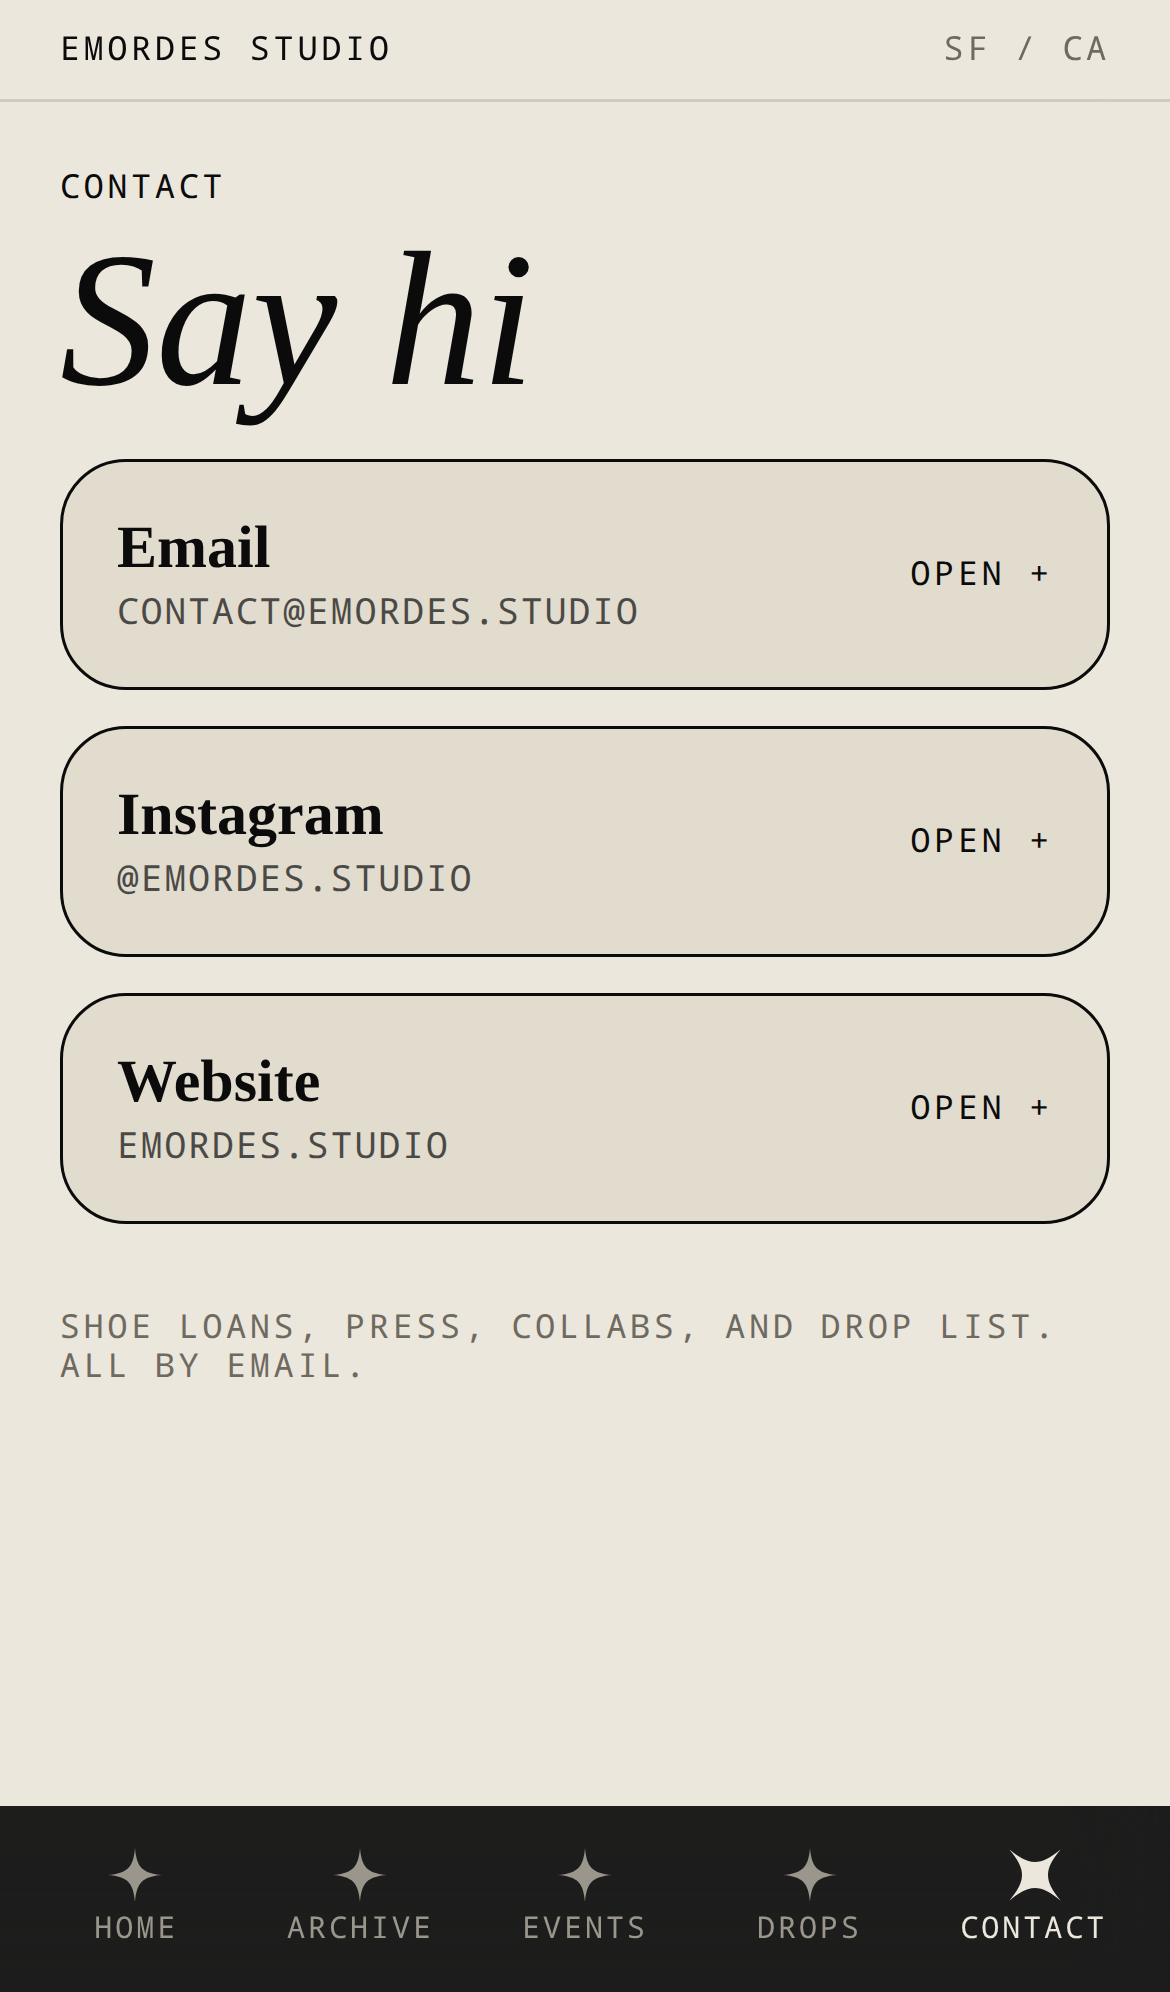
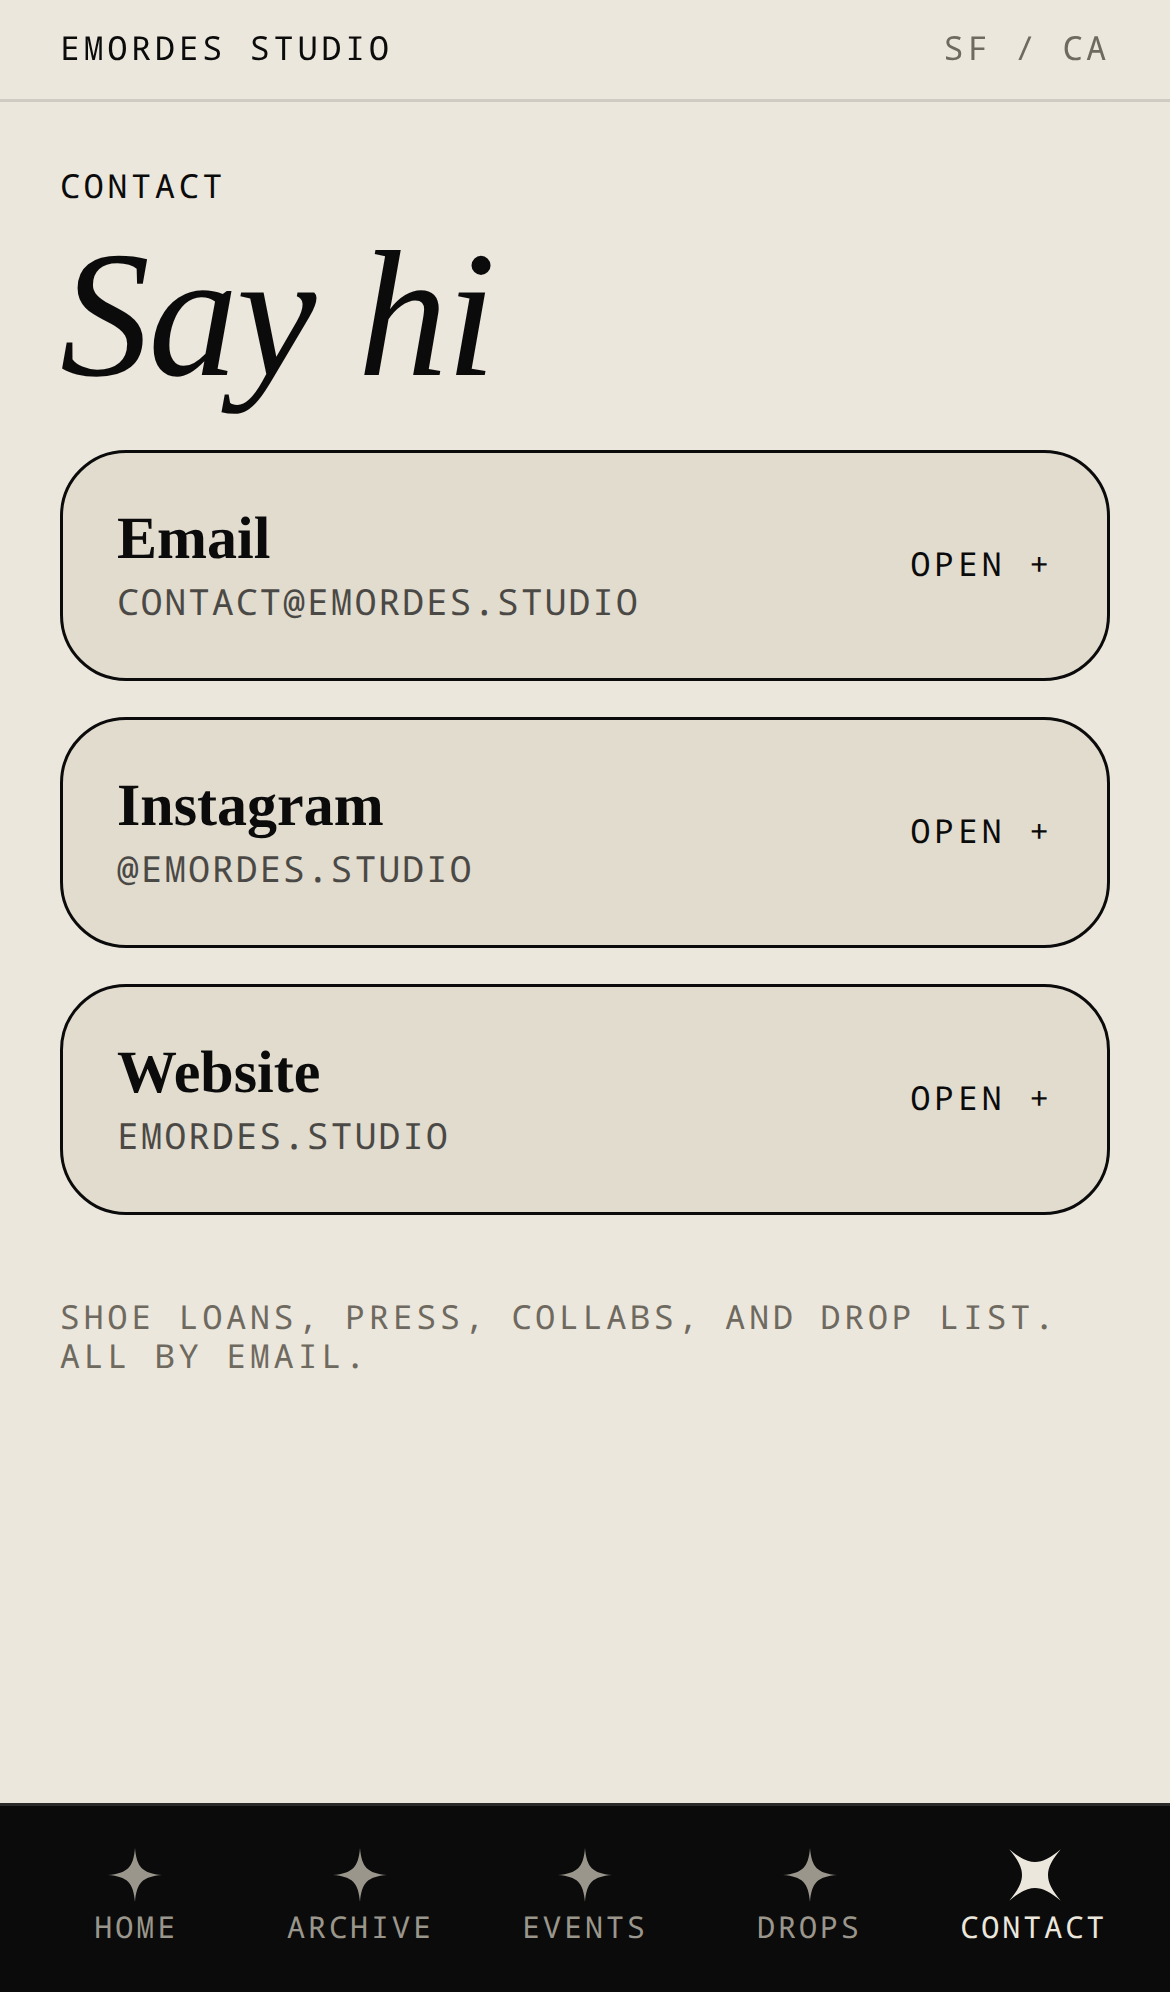
Opaque bottom nav, more bottom padding, legible serif titles

diff --git a/style.css b/style.css
@@ -1,14 +1,14 @@
-:root{--bone:#ece7dd;--bone2:#e2dccf;--ink:#0b0b0b;--dim:#6f6a60;--chrome:linear-gradient(135deg,#f6f6f6 0%,#b9bcc2 22%,#fdfdfd 45%,#8d9097 68%,#e9eaec 100%);--tab:78px}
+:root{--bone:#ece7dd;--bone2:#e2dccf;--ink:#0b0b0b;--dim:#6f6a60;--chrome:linear-gradient(135deg,#f6f6f6 0%,#b9bcc2 22%,#fdfdfd 45%,#8d9097 68%,#e9eaec 100%);--tab:92px}
 *{box-sizing:border-box;margin:0;-webkit-tap-highlight-color:transparent}
 html,body{background:var(--bone);color:var(--ink);font-family:"Helvetica Neue",Helvetica,Arial,sans-serif;overscroll-behavior:none}
 body{min-height:100dvh;-webkit-user-select:none;user-select:none}
 .mono{font-family:ui-monospace,"SF Mono",Menlo,monospace;font-size:11px;letter-spacing:.12em;text-transform:uppercase}
 .dim{color:var(--dim)}.sp{margin:28px 0 10px}
 .top{position:fixed;top:0;left:0;right:0;z-index:5;display:flex;justify-content:space-between;padding:calc(env(safe-area-inset-top) + 10px) calc(env(safe-area-inset-right) + 20px) 10px calc(env(safe-area-inset-left) + 20px);background:rgba(236,231,221,.82);backdrop-filter:blur(14px);-webkit-backdrop-filter:blur(14px);border-bottom:1px solid rgba(0,0,0,.12)}
-main{padding:calc(env(safe-area-inset-top) + 56px) calc(env(safe-area-inset-right) + 20px) calc(var(--tab) + env(safe-area-inset-bottom) + 24px) calc(env(safe-area-inset-left) + 20px);max-width:640px;margin:auto}
+main{padding:calc(env(safe-area-inset-top) + 56px) calc(env(safe-area-inset-right) + 20px) calc(var(--tab) + env(safe-area-inset-bottom) + 32px) calc(env(safe-area-inset-left) + 20px);max-width:640px;margin:auto}
 .view{display:none}.view.active{display:block;animation:in .45s cubic-bezier(.2,.8,.2,1)}
 @keyframes in{from{opacity:0;transform:translateY(14px)}to{opacity:1;transform:none}}
-.script{font-family:"Snell Roundhand","Apple Chancery","Brush Script MT",cursive;font-weight:400;font-size:64px;line-height:1;margin:6px 0 14px;font-style:italic}
+.script{font-family:"Didot","Bodoni 72","Playfair Display",Georgia,serif;font-weight:400;font-size:60px;line-height:1.02;margin:6px 0 14px;font-style:italic;letter-spacing:-.01em}
 h2{font-family:"Didot","Bodoni 72",Georgia,serif;font-size:34px;line-height:1;text-transform:uppercase;letter-spacing:.01em;font-weight:700;margin:10px 0}
 .meta{display:flex;gap:8px;flex-wrap:wrap;margin:6px 0 14px}
 .meta span{font-family:ui-monospace,Menlo,monospace;font-size:11px;letter-spacing:.08em;text-transform:uppercase;border:1px solid currentColor;border-radius:99px;padding:4px 10px}
@@ -49,7 +49,7 @@ h2{font-family:"Didot","Bodoni 72",Georgia,serif;font-size:34px;line-height:1;te
 .drop{display:flex;align-items:center;justify-content:space-between;border:1.5px solid var(--ink);border-radius:22px;padding:18px;background:var(--bone2);min-height:84px}
 .drop svg{width:44px;height:44px;fill:var(--ink)}
 .drop b{font-family:"Didot",Georgia,serif;font-style:italic;font-weight:400;font-size:20px}
-.tabs button{min-height:48px}.tabs{position:fixed;left:0;right:0;bottom:0;z-index:6;display:flex;justify-content:space-around;padding:8px 8px calc(env(safe-area-inset-bottom) + 6px);background:rgba(11,11,11,.92);backdrop-filter:blur(14px);-webkit-backdrop-filter:blur(14px)}
+.tabs button{min-height:48px}.tabs{position:fixed;left:0;right:0;bottom:0;z-index:6;display:flex;justify-content:space-around;padding:8px 8px calc(env(safe-area-inset-bottom) + 6px);background:#0b0b0b;border-top:1px solid #2a2a2a}
 .tabs button{flex:1;background:none;border:0;color:#9a968c;display:flex;flex-direction:column;align-items:center;gap:4px;padding:6px 0;font:10px ui-monospace,Menlo,monospace;letter-spacing:.1em;text-transform:uppercase;cursor:pointer;transition:color .2s}
 .tabs svg{overflow:visible;width:18px;height:18px;fill:currentColor;transition:transform .35s cubic-bezier(.3,1.6,.5,1)}
 .tabs .on{color:var(--bone)}.tabs .on svg{transform:scale(1.35) rotate(45deg)}
